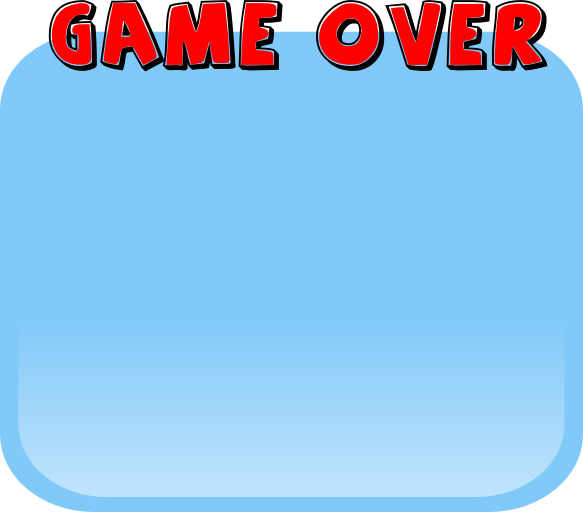
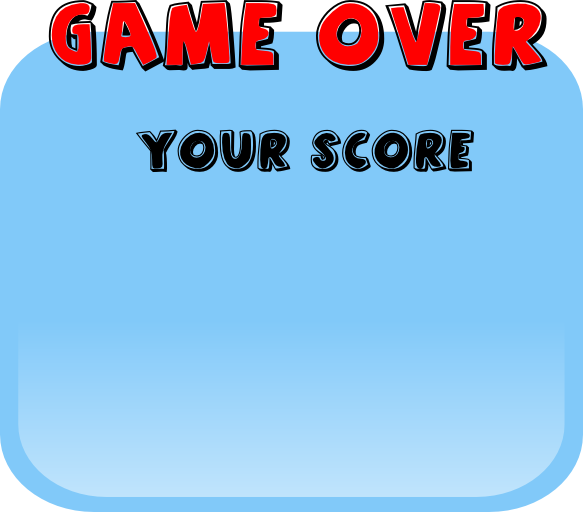
Agregado imagen new record y grabado de highscore

Changed region(s): [[0.5249, 0.25, 0.8336, 0.3438], [0.2161, 0.25, 0.494, 0.3438]]

diff --git a/ProtectTheTown/src/com/lucianosimo/protectthetown/scene/GameScene.java b/ProtectTheTown/src/com/lucianosimo/protectthetown/scene/GameScene.java
@@ -27,6 +27,10 @@ import org.andengine.util.adt.color.Color;
 import org.andengine.util.debug.Debug;
 import org.andengine.util.modifier.IModifier;
 
+import android.content.SharedPreferences;
+import android.content.SharedPreferences.Editor;
+import android.preference.PreferenceManager;
+
 import com.badlogic.gdx.math.Vector2;
 import com.badlogic.gdx.physics.box2d.Body;
 import com.badlogic.gdx.physics.box2d.BodyDef.BodyType;
@@ -86,10 +90,12 @@ public class GameScene extends BaseScene{
 	
 	//Integers
 	private int score = 0;
+	private int previousHighScore = 0;
 	
 	//Windows
 	private Sprite gameOverWindow;
 	private Sprite pauseWindow;
+	private Sprite newRecord;
 	
 	//Buttons
 	private Sprite resumeButton;
@@ -1517,6 +1523,17 @@ public class GameScene extends BaseScene{
 		gameOverWindow = new Sprite(0, 0, resourcesManager.game_over_window_region, vbom);
 		Rectangle fade = new Rectangle(screenWidth/2, screenHeight/2, screenWidth, screenHeight, vbom);
 		
+		//newRecord = new Sprite(screenWidth/2 + 300, screenHeight/2 + 50, resourcesManager.game_new_record_region, vbom);
+		newRecord = new Sprite(580, 280, resourcesManager.game_new_record_region, vbom);
+		
+		loadHighScore();
+		
+		if (score > previousHighScore) {
+			saveHighScore("highScore", score);
+		} else {
+			newRecord.setVisible(false);
+		}			
+		
 		fade.setColor(Color.BLACK);
 		fade.setAlpha(0.35f);
 		
@@ -1526,11 +1543,12 @@ public class GameScene extends BaseScene{
 		GameScene.this.setIgnoreUpdate(true);
 		gameOverWindow.setPosition(camera.getCenterX(), camera.getCenterY());
 		
-		finalScoreText = new Text(275, 256, resourcesManager.finalScoreFont, " Yourscore:123456789", new TextOptions(HorizontalAlign.LEFT), vbom);
+		//291 256
+		finalScoreText = new Text(291, 300, resourcesManager.finalScoreFont, "123456789", new TextOptions(HorizontalAlign.LEFT), vbom);
 		
 		finalScoreText.setColor(Color.BLACK_ARGB_PACKED_INT);
 
-		finalScoreText.setText("Your score: " + score);
+		finalScoreText.setText(""+score);
 		
 		retryButton = new Sprite(450, 50, resourcesManager.game_retry_button_region, vbom){
 	    	public boolean onAreaTouched(TouchEvent pSceneTouchEvent, float pTouchAreaLocalX, float pTouchAreaLocalY) {
@@ -1565,6 +1583,8 @@ public class GameScene extends BaseScene{
 		gameOverWindow.attachChild(retryButton);
 		gameOverWindow.attachChild(quitButton);
 		gameOverWindow.attachChild(finalScoreText);
+		gameOverWindow.attachChild(newRecord);
+				
 	}
 	
 	private void createExplosion(float x, float y) {
@@ -2491,4 +2511,15 @@ public class GameScene extends BaseScene{
 		});
 	}
 	
+	private void saveHighScore(String key, int score) {
+		SharedPreferences sharedPreferences = PreferenceManager.getDefaultSharedPreferences(activity);
+		Editor editor = sharedPreferences.edit();
+		editor.putInt(key, score);
+		editor.commit();
+	}
+	
+	private void loadHighScore() {
+		SharedPreferences sharedPreferences = PreferenceManager.getDefaultSharedPreferences(activity);
+		previousHighScore = sharedPreferences.getInt("highScore", 0);
+	}
 }

diff --git a/ProtectTheTown/src/com/lucianosimo/protectthetown/manager/ResourcesManager.java b/ProtectTheTown/src/com/lucianosimo/protectthetown/manager/ResourcesManager.java
@@ -113,6 +113,7 @@ public class ResourcesManager {
 	//Windows
 	public ITextureRegion game_over_window_region;
 	public ITextureRegion game_pause_window_region;
+	public ITextureRegion game_new_record_region;
 	
 	//Buttons
 	public ITextureRegion game_resume_button_region;
@@ -280,6 +281,7 @@ public class ResourcesManager {
 		
 		game_over_window_region = BitmapTextureAtlasTextureRegionFactory.createFromAsset(gameWindowsTextureAtlas, activity, "game_over_window.png");
 		game_pause_window_region = BitmapTextureAtlasTextureRegionFactory.createFromAsset(gameWindowsTextureAtlas, activity, "game_pause_window.png");
+		game_new_record_region = BitmapTextureAtlasTextureRegionFactory.createFromAsset(gameWindowsTextureAtlas, activity, "game_new_record.png");
 		
 		game_resume_button_region = BitmapTextureAtlasTextureRegionFactory.createFromAsset(gameWindowsTextureAtlas, activity, "game_resume_button.png");
 		game_retry_button_region = BitmapTextureAtlasTextureRegionFactory.createFromAsset(gameWindowsTextureAtlas, activity, "game_retry_button.png");
